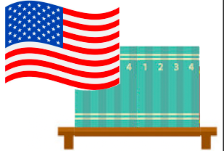
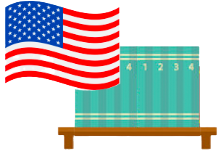
use with latest images

diff --git a/site/src/frontend/puzzles/tall-change/puzzle.tsx b/site/src/frontend/puzzles/tall-change/puzzle.tsx
@@ -6,7 +6,7 @@ import {
 } from "../../components/CopyToClipboard";
 import LinkedImage from "../../components/LinkedImage";
 import img01 from "./assets/1.png";
-import img02 from "./assets/2.jpg";
+import img02 from "./assets/2.png";
 
 const SizedWrapper = styled.div`
   width: 100%;
